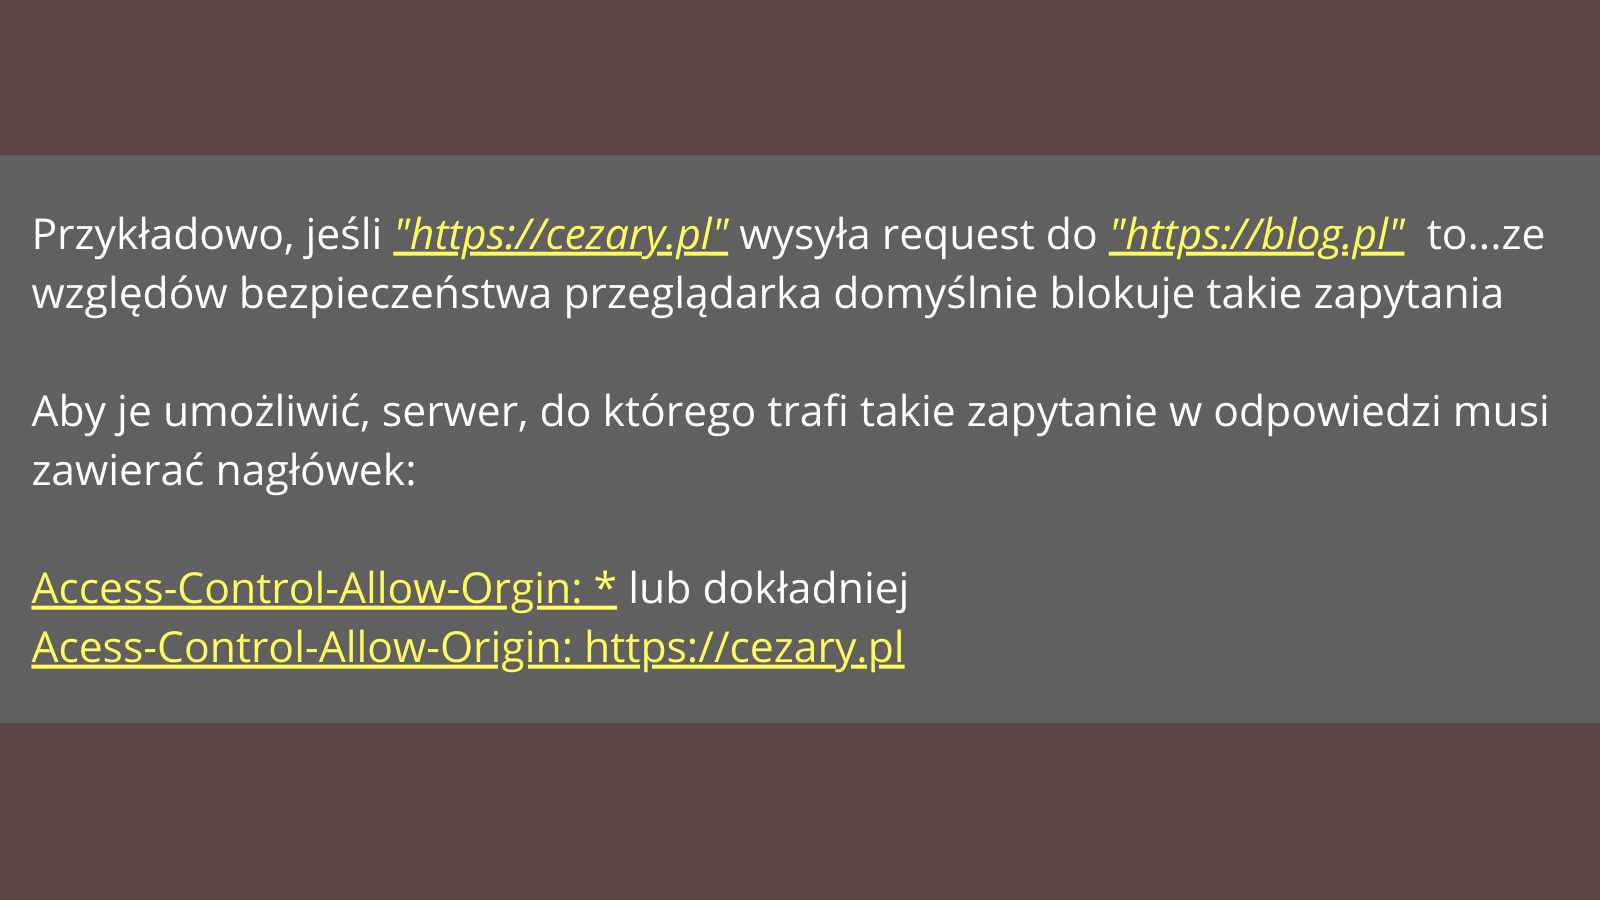
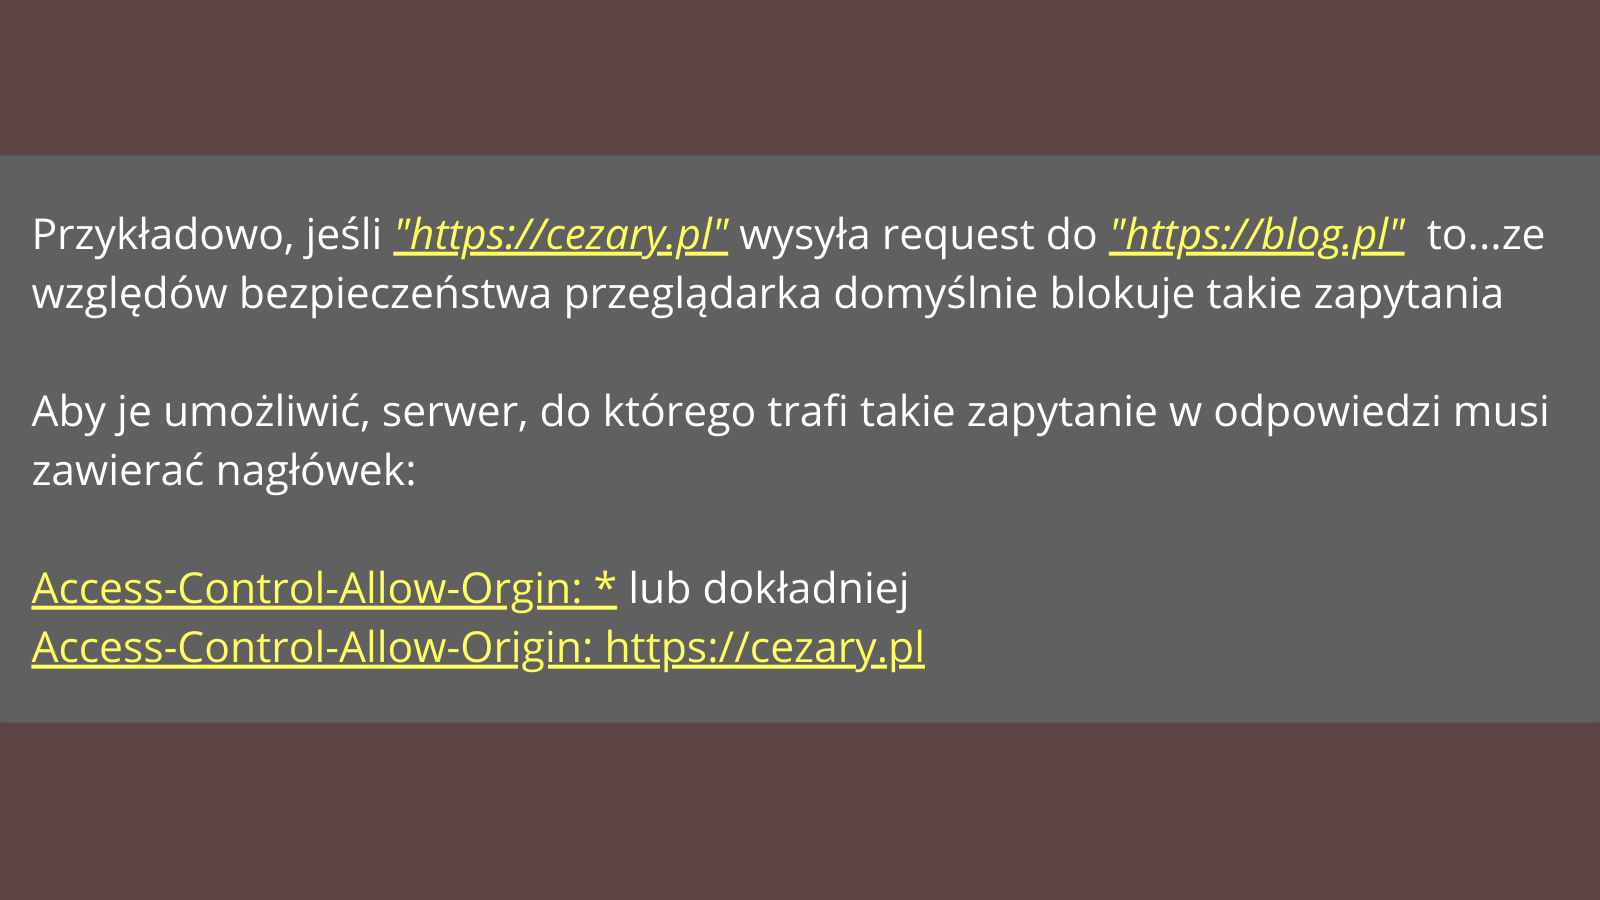
fixing erros langugage

Changed region(s): [[0.0625, 0.6844, 0.5938, 0.7467]]

diff --git a/index.html b/index.html
@@ -403,7 +403,7 @@
 
     <section class="slide securityGragient">
         <span class="shout colors">
-            <span>Secuirty</span>
+            <span>Security</span>
         </span>
     </section>
 
@@ -453,13 +453,16 @@
             <li class="next">v</li>
         </ol>
     </section> -->
-    <section class="slide javascriptGragient">
+
+
+
+    <!-- <section class="slide javascriptGragient">
         <span class="shout colors">
             <span>Pytania z JavaScript</span>
         </span>
-    </section>
+    </section> -->
 
-    <section class="slide" style="background-color:black">
+    <!-- <section class="slide" style="background-color:black">
         <figure>
             <img class="cover" src="pictures/JavaScript/01.png" alt="blog">
             <figcaption class="white">Copyright © 2021 Cezary Walenciuk</figcaption>
@@ -476,8 +479,8 @@
             <img class="cover" src="pictures/JavaScript/01-Answer-2.png" alt="blog">
             <figcaption class="white">Copyright © 2021 Cezary Walenciuk</figcaption>
         </figure>
-    </section> 
-    <section class="slide" style="background-color:black">
+    </section>  -->
+    <!-- <section class="slide" style="background-color:black">
         <figure>
             <img class="cover" src="pictures/JavaScript/02.png" alt="blog">
             <figcaption class="white">Copyright © 2021 Cezary Walenciuk</figcaption>
@@ -542,7 +545,7 @@
             <li class="next">Jakie są typy danych w JavaScript ?</li>
             <li class="next">Co róźni null od undefined ?</li>
         </ol>
-    </section>
+    </section> -->
 
     <section class="slide funckyjneGragient">
         <span class="shout colors">
@@ -1252,10 +1255,11 @@
     </section> 
     <section class="slide" style="background-color:black">
         <figure>
-            <img class="cover" src="pictures/02.png" alt="blog">
+            <img class="cover" src="pictures/03.png" alt="blog">
             <figcaption class="white">Copyright © 2021 Cezary Walenciuk</figcaption>
         </figure>
     </section> 
+
 
     <!-- <section class="slide prism over bhgry">
         <div class="grid-container">
